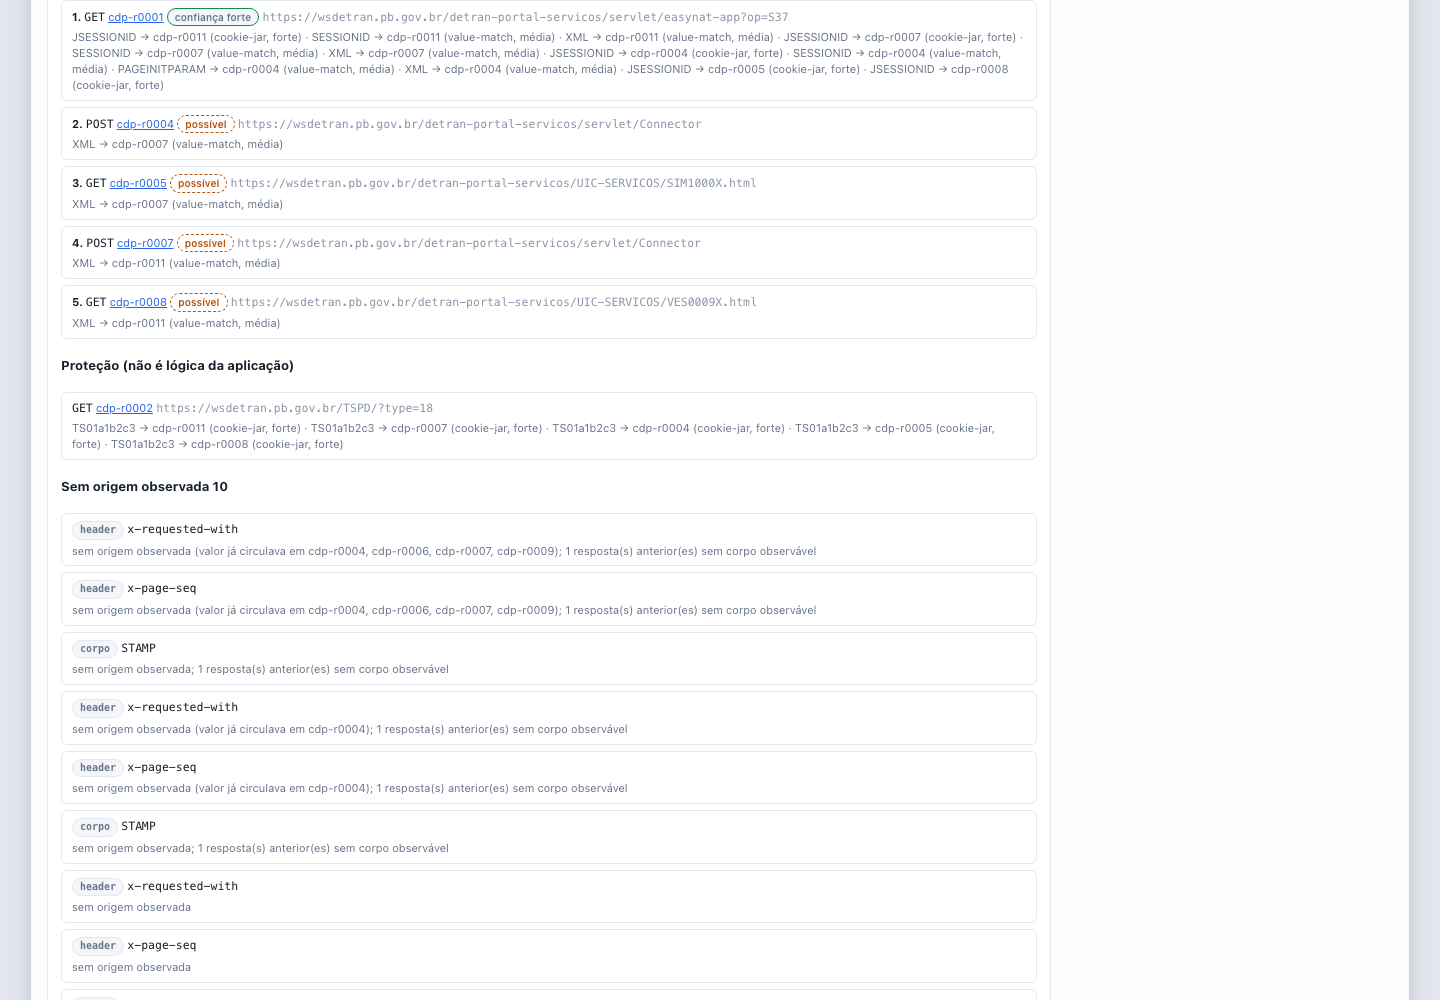
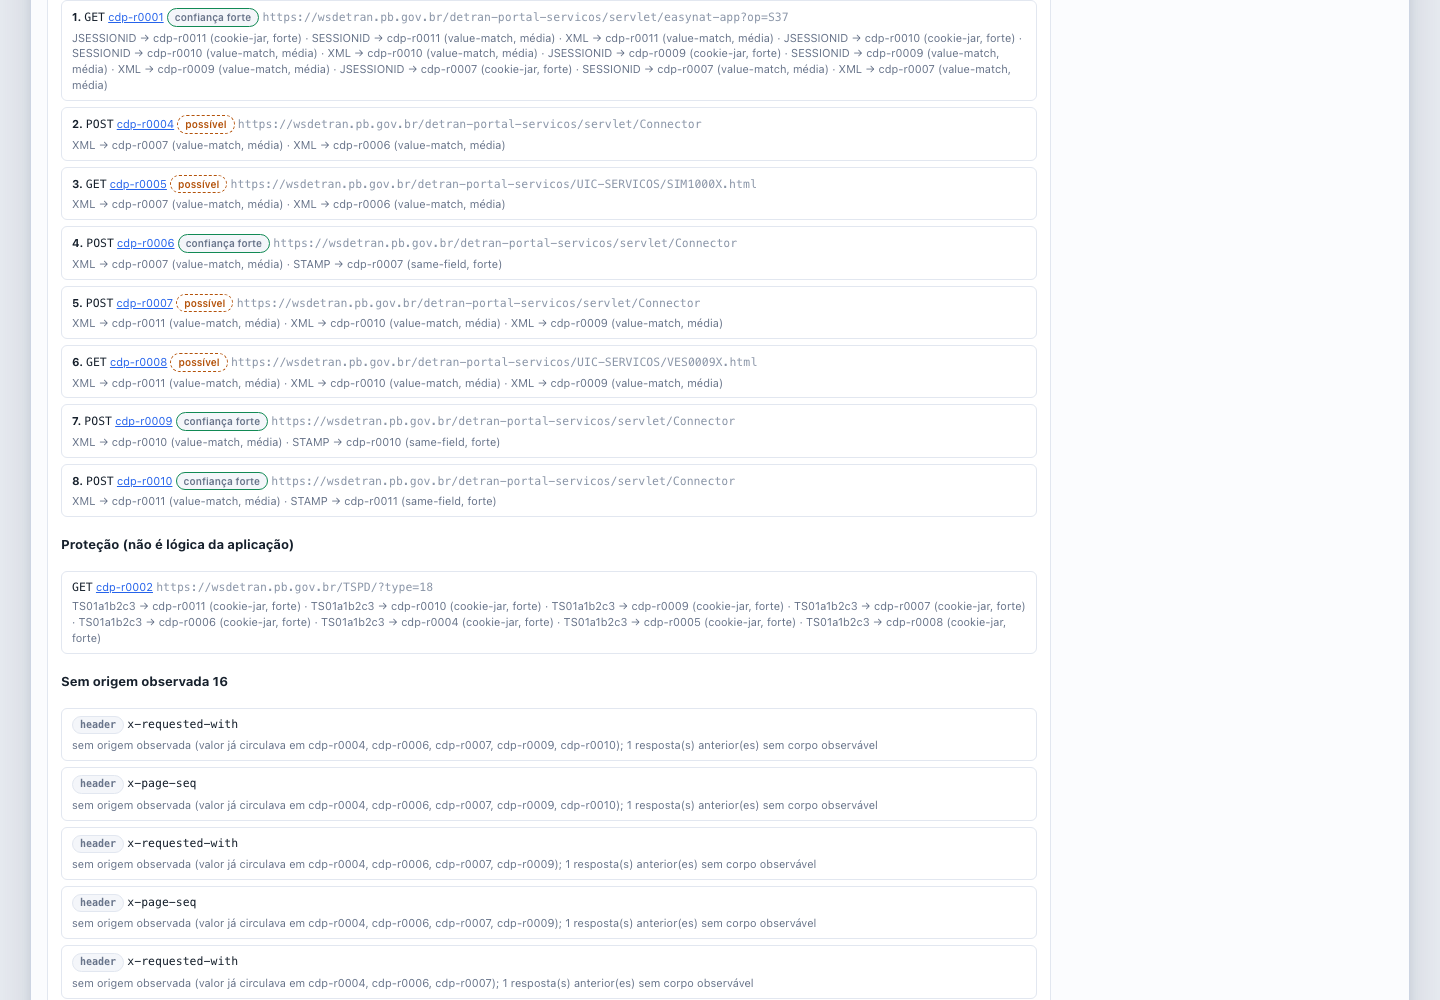
fix(app): use core labels for possible origin and redo the evidence

diff --git a/app/scripts/adapter-minimal.test.ts b/app/scripts/adapter-minimal.test.ts
@@ -143,4 +143,6 @@ assert.equal(dynamicSummary({ ...counts, dynamic: 44 }), "44 dinâmico(s)");
 assert.equal(visibleFields([fd({ field: "s" }), fd({ field: "d", class: "dynamic" })], true).length, 1);
 assert.equal(visibleFields([fd({ field: "s" }), fd({ field: "d", class: "dynamic" })], false).length, 2);
 assert.equal(DYNAMIC_ONLY_THRESHOLD, 500);
+assert.equal(originStatusLabel(vo({ status: "origin", confidence: "possible", label: "possível origem (value-match)", evidences: [ev("a")] })), "possível origem (value-match)");
+assert.equal(originStatusLabel(vo({ status: "origin", confidence: "strong", label: "origem observada", evidences: [strongEv] })), "origem observada");
 console.log("adapter-minimal: ok");

diff --git a/app/src/flow.ts b/app/src/flow.ts
@@ -185,6 +185,8 @@ export const strengthLabels: Record<string, string> = { strong: "forte", medium:
 /** Rótulo de status em português; "sem origem observada" é neutro, nunca erro. */
 export function originStatusLabel(value: ValueOrigin): string {
   const confidence = originConfidence(value);
+  // Rótulo do core, quando informa a confiança (garante os mesmos textos do core).
+  if ((value.status === "origin" || value.status === "ambiguous") && value.confidence && value.label) return value.label;
   const kind = (oldestEvidence(value) ?? value.evidences[0])?.kind;
   switch (value.status) {
     case "repeated":

diff --git a/app/src/CaptureCompare.tsx b/app/src/CaptureCompare.tsx
@@ -24,7 +24,7 @@ function FieldRow({ field }: { field: FieldDiff }) {
         <div className="mono">{field.a ?? <span className="dim">—</span>}</div>
         <div className="mono">{field.b ?? <span className="dim">—</span>}</div>
         <div>
-          <span className={`chip ${dynamic ? "v-partial" : "tag"}`}>{fieldClassLabel(field)}</span>
+          <span className={`chip ${field.originLabel?.includes("possível") ? "possible" : dynamic ? "v-partial" : "tag"}`}>{fieldClassLabel(field)}</span>
           {field.origin && (
             <div className="dim">
               {field.origin.kind}

diff --git a/src-tauri/EMPACOTAMENTO.md b/src-tauri/EMPACOTAMENTO.md
@@ -48,13 +48,13 @@ Ferramentas usadas: rustc 1.98.1, Node 26.8.1, macOS 26.5.2 (arm64).
 | Arquitetura | `Mach-O 64-bit executable arm64`, thin (sem universal binary) |
 | Tamanho do bundle | 15.368 KiB (~15,0 MiB, `du -sk`) |
 | Tamanho do executável | 14.979.744 bytes |
[2 lines of base64/hex data omitted]
 | Identificador | `app.scrapelens.desktop` |
 | Assinatura | ad-hoc (`flags=0x2(adhoc)`, `TeamIdentifier=not set`) |
 | `codesign --verify --deep --strict` | exit 0 (valid on disk, satisfaz o Designated Requirement) |
 | `spctl -a` | rejeitado — esperado: sem Developer ID e sem notarização |
 
-Rebuild das correções da revisão da rodada 5 (possível origem, confiança por passo, comparação paginada, caminhos canônicos, partsCounts; hash anterior `c1783a57…`). Antes: rebuild da onda 5b (aba Origem, cadeia de priming, comparação A × B, exportação com origens anotadas; hash anterior `2f08150d…`). Antes: rebuild do acabamento da rodada 4 (legenda de realce só quando há tracejado, nota discreta para `chrome-decoded`, aviso para `charset:*`/`lossy-postData`); hash anterior `0e2754f4…`. Antes: rebuild com busca preguiçosa do core (LazySession + search_lazy), realce sólido/tracejado e texto da fixture sintética; hash anterior `f9c0acec…`. Antes: rebuild das correções da revisão 4b (rótulos de origem, realce pelo intervalo do core, cache do bundle de busca, recusa de symlink em anexos, `transformed`; hash anterior `56ee754b…`). Antes: rebuild da onda 4b (busca no payload e painel de corpos: commands `search_session` e `read_body`, UI; 28+2 ignorados em src-tauri, 16/16 em tests/exportacao, `npm run test:adapter` ok; evidência em `evidence/busca-corpos/`). Hash anterior `9c04b98b…` substituído. Histórico: rebuild de 0d4dbab (`fix(app)`: adapter tolera campos omitidos que o core aceita via serde default; teste `npm run test:adapter` com a fixture mínima; 15+1 ignorado Tauri, 16/16 regressões tests/exportacao). Hash anterior `5934556c…` (16015a1) substituído. Antes: rebuild com validação de todos os ancestrais do destino (F1/F2): o hash acima é deste build. O SHA-256 é do executável **após** o re-sign ad-hoc. Um `tauri build` limpo
+Rebuild com os rótulos do core (possível origem) e fixtures regeneradas; hash anterior `31ec27c3…`. Antes: rebuild das correções da revisão da rodada 5 (possível origem, confiança por passo, comparação paginada, caminhos canônicos, partsCounts; hash anterior `c1783a57…`). Antes: rebuild da onda 5b (aba Origem, cadeia de priming, comparação A × B, exportação com origens anotadas; hash anterior `2f08150d…`). Antes: rebuild do acabamento da rodada 4 (legenda de realce só quando há tracejado, nota discreta para `chrome-decoded`, aviso para `charset:*`/`lossy-postData`); hash anterior `0e2754f4…`. Antes: rebuild com busca preguiçosa do core (LazySession + search_lazy), realce sólido/tracejado e texto da fixture sintética; hash anterior `f9c0acec…`. Antes: rebuild das correções da revisão 4b (rótulos de origem, realce pelo intervalo do core, cache do bundle de busca, recusa de symlink em anexos, `transformed`; hash anterior `56ee754b…`). Antes: rebuild da onda 4b (busca no payload e painel de corpos: commands `search_session` e `read_body`, UI; 28+2 ignorados em src-tauri, 16/16 em tests/exportacao, `npm run test:adapter` ok; evidência em `evidence/busca-corpos/`). Hash anterior `9c04b98b…` substituído. Histórico: rebuild de 0d4dbab (`fix(app)`: adapter tolera campos omitidos que o core aceita via serde default; teste `npm run test:adapter` com a fixture mínima; 15+1 ignorado Tauri, 16/16 regressões tests/exportacao). Hash anterior `5934556c…` (16015a1) substituído. Antes: rebuild com validação de todos os ancestrais do destino (F1/F2): o hash acima é deste build. O SHA-256 é do executável **após** o re-sign ad-hoc. Um `tauri build` limpo
 produz um binário byte-diferente (o linker assina antes do bundle), por isso o
 hash identifica este artefato, não a saída de qualquer build. O build anterior
 desta mesma rodada, sem o ajuste `3a3c676`, tinha
